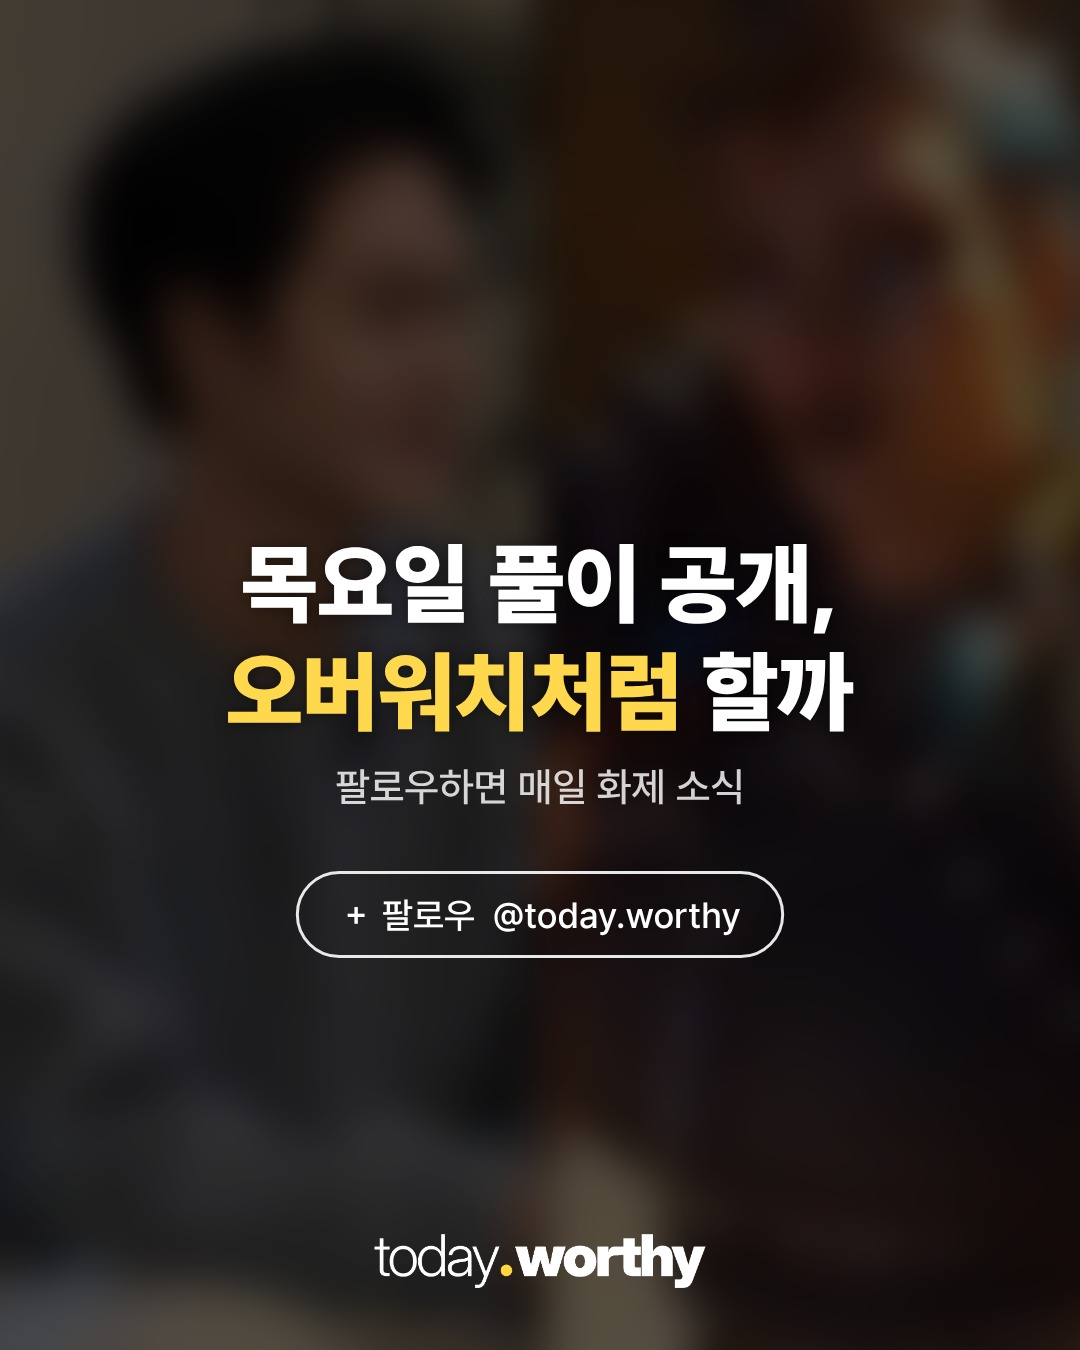
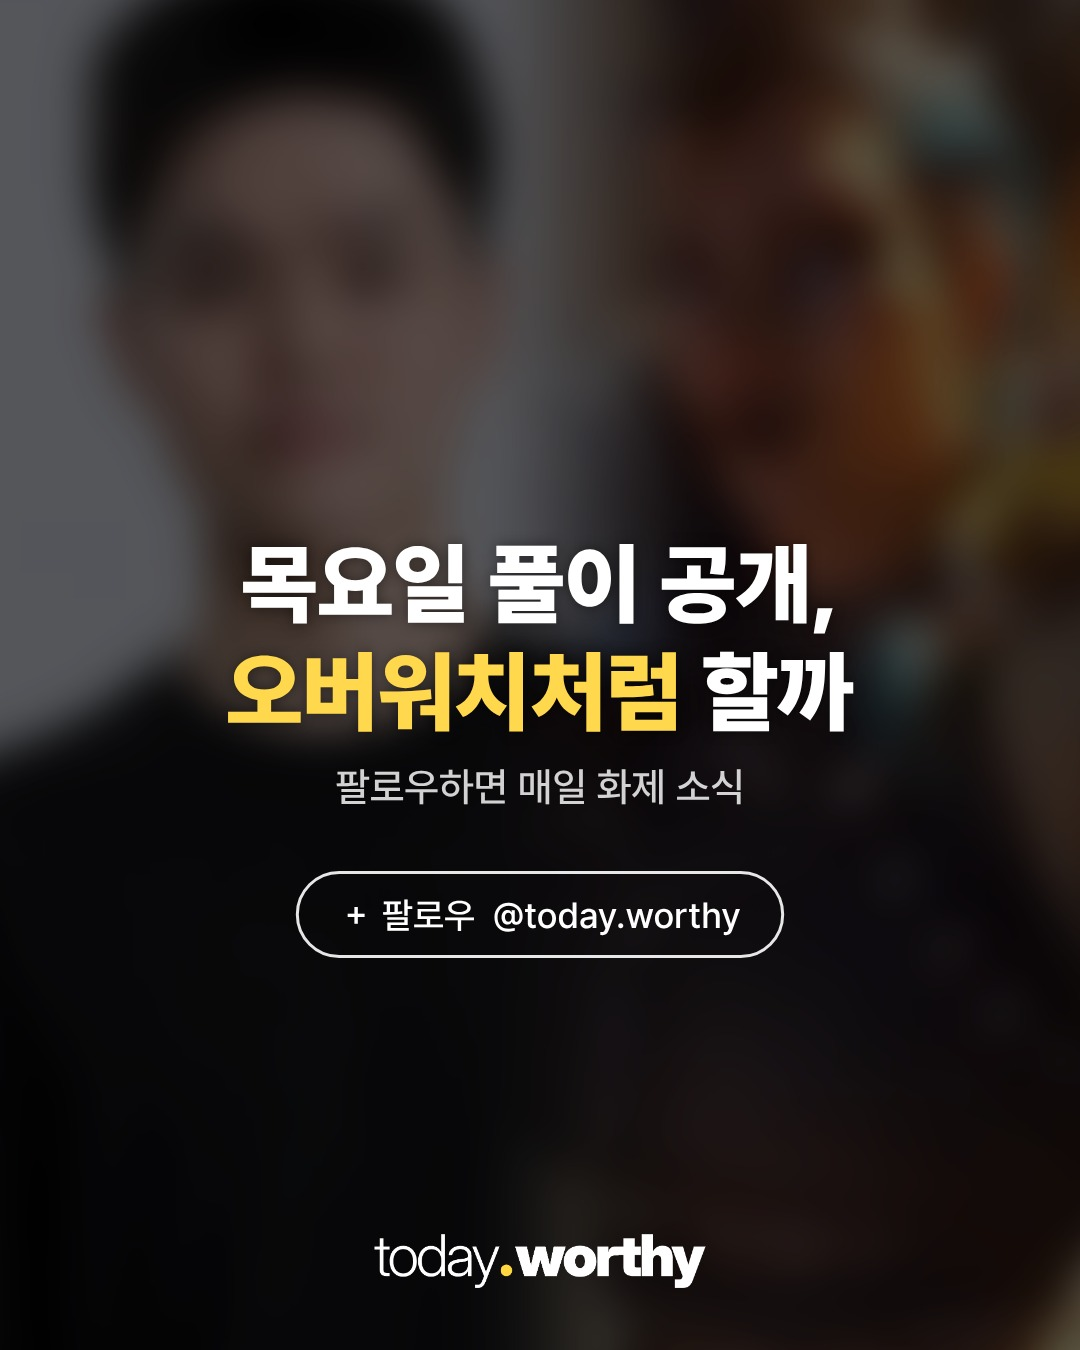
jinwoo-ow 표지: 사용자 제공 사진 + 경계 페이드
Claude-Session: https://claude.ai/code/session_01FGsw5QnWxFUsnopcB1Czie

diff --git a/media/20261117-jinwoo-ow/build_cards.py b/media/20261117-jinwoo-ow/build_cards.py
@@ -87,3 +87,11 @@ frame(("지금까지 나온 의혹과 해명", "'목요일'에 풀이 공개"),
       panel([("MBC 보도", "언어이해 25~29번 답 '연달아 수정'"), ("처음 고른 답", "바로 앞 24~28번 정답과 '일치'"), ("본인 해명", "후반 집중력 저하로 '잔실수'"), ("예고", "19일(목) 수능 국어 '풀이 공개'")]),
       "부정행위는 '확인된 사실 아님'", "MBC(11.16)·TV리포트(11.17)").save(O / "c05.jpg", quality=93)
 print("ok")
+# 표지 배경(사용자 지정): 왼쪽 이진우 프로필 사진(사용자 제공), 오른쪽 정커퀸 — 가운데 경계는 페이드
+lee = Image.open(O / "lee_photo.jpg"); s = H / lee.height; lee = lee.resize((round(lee.width * s), H), Image.LANCZOS)
+Lc = Image.new("RGB", (W, H), (235, 238, 242)); Lc.paste(lee, (round(330 - 480 * s), 0))
+jq = ImageOps.fit(Image.open(O / "jq.png").convert("RGB").crop((180, 92, 700, 628)), (620, H), Image.LANCZOS, centering=(.5, .3))
+Rc = Image.new("RGB", (W, H)); Rc.paste(jq, (W - 620, 0))
+row = Image.new("L", (W, 1)); row.putdata([0 if x < 500 else 255 if x > 680 else int(255 * (x - 500) / 180) for x in range(W)])
+mask = row.resize((W, H))
+Image.composite(Rc, Lc, mask).save(O / "cover_bg.jpg", quality=95)
